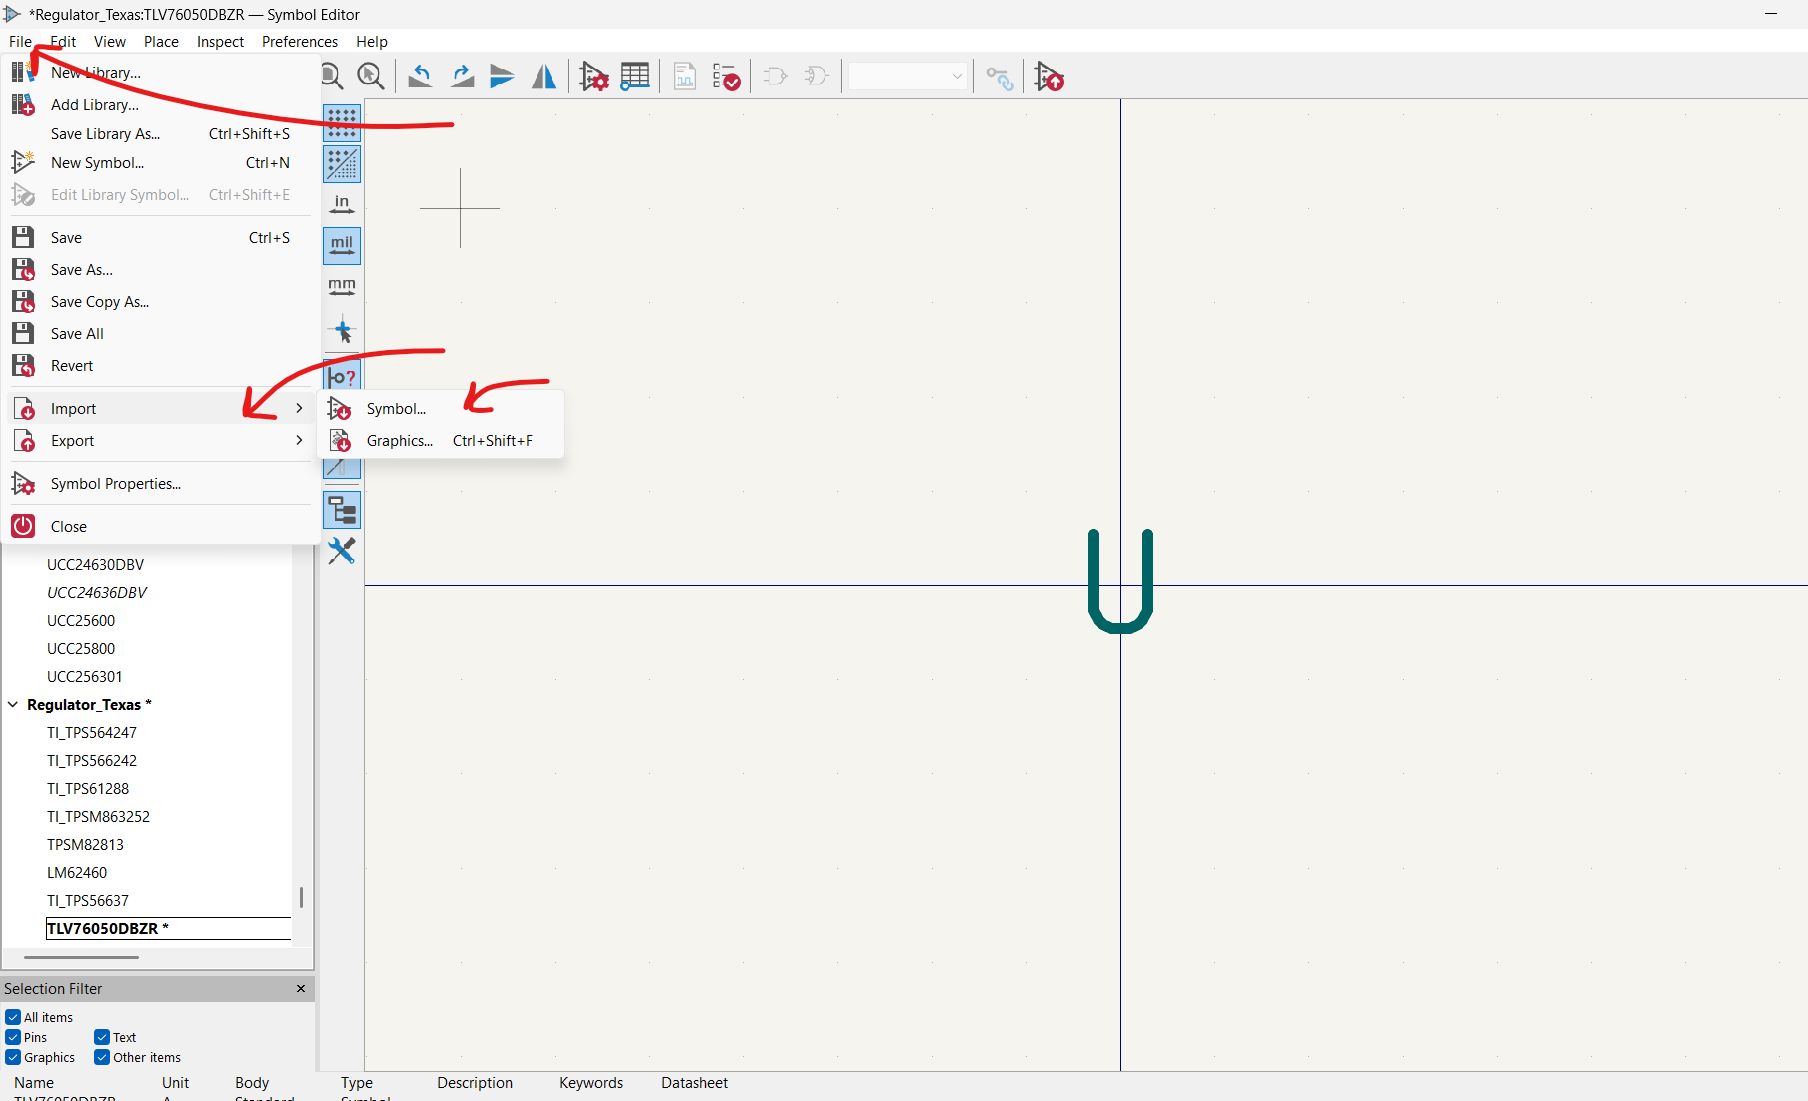
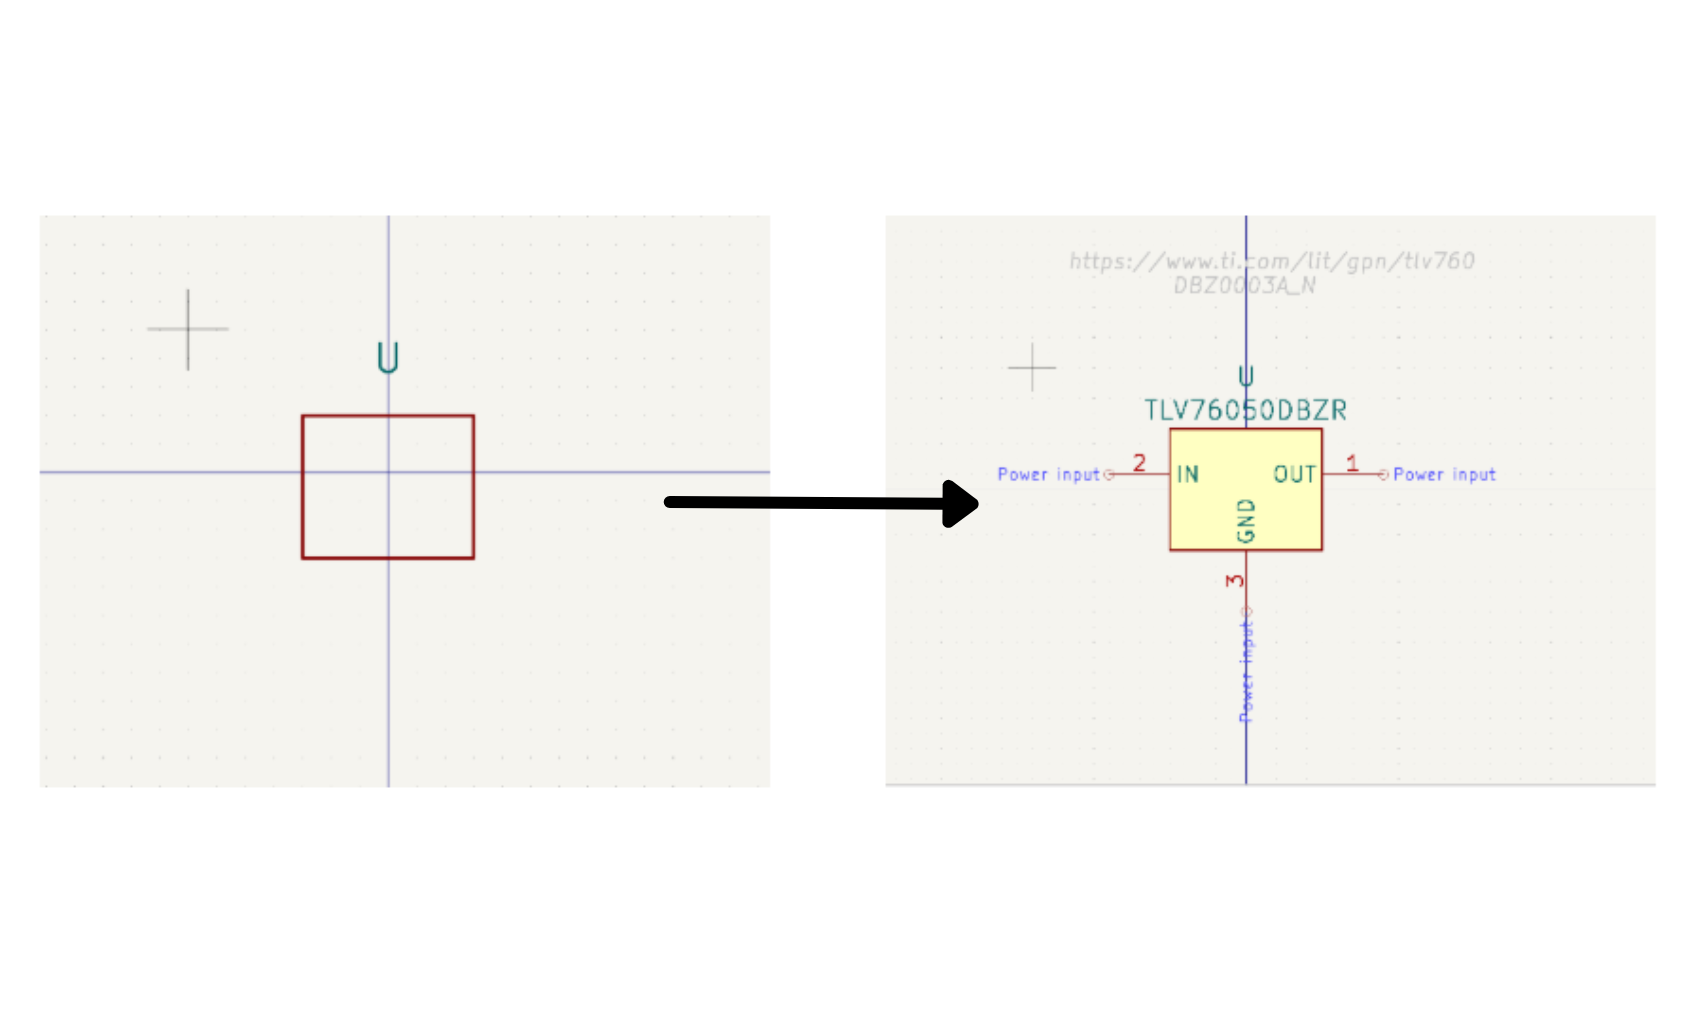
How to Import and Create Symbol Library Tutorial Additions

diff --git a/HOW-TO.md b/HOW-TO.md
@@ -9,8 +9,8 @@
     - [Finding ISS Symbol Library](#finding-iss-symbol-library)
     - [Setting Up Symbol Directories](#setting-up-symbol-directories)
     - [New Symbols](#new-symbols)
-- [Importing Project Specifc Libraries](#importing-project-specific-libraries)
 - [Footprints](#footprint-libraries)
+- [Importing Project Specifc Libraries](#importing-project-specific-libraries)
 - [Layout Tutorials](#layout-tutorials)
     - [Setting Up Design Rules Contraints](#setting-up-design-rules-constraints-drc)
     - [Trace Impedance Matching](#trace-impedance-matching)
@@ -49,9 +49,8 @@ Ensure symbol names follow ISS conventions seen in [ISS Library Conventions](htt
 
 *Error: If you get an error that says “Symbol Library “name” is not writable” this means you are trying to write to a kicad library you need to import to an ISS folder.*
 
-Click for [New Symbol Library](#creating-a-new-symbol-library)
+Either click to create a [New Symbol Library](#creating-a-new-symbol-library) or if you already have an existing symbol library that follows [conventions](https://github.com/ISSUIUC/ISS-PCB/blob/conventions/CONTRIBUTING.md#iss-library-convention) follow the steps to [import](#import-new-symbols-within-existing-library) or [create a new symbol](#creating-new-symbols)!
 
-If you already have an existing symbol library that follows [conventions](https://github.com/ISSUIUC/ISS-PCB/blob/conventions/CONTRIBUTING.md#iss-library-convention) and need help importing a symbol click [Import New Symbols within Existing Library](#import-new-symbols-within-existing-library)
 
 ### **Creating a New Symbol Library** 
 
@@ -75,13 +74,48 @@ Follow the steps to [import](#import-new-symbols-within-existing-library) or [cr
 
 ### **Import New Symbols within Existing Library**
 
-Symbols!
+Find the library and right click on it. Then click the import symbol. 
 
+![alt text](images/ISS-PCB-KiCAD-HOW-TO-DSPT1.png)
+
+Give symbol name (should be the name of the component you are importing) and [reference designator](https://github.com/ISSUIUC/ISS-PCB/blob/conventions/ISS-PCB-CONVENTIONS.md#reference-designators) in this case: 
+
+![alt text](images/ISS-PCB-KiCAD-HOW-TO-DSPT2.png)
+
+Make sure symbol is up to [conventions](https://github.com/ISSUIUC/ISS-PCB/blob/conventions/ISS-PCB-CONVENTIONS.md#symbol-conventions)
+
+- Save! File > Save 
+
+- Look up the name in (Place Symbols) in schematic editor 
 
 
 ### **Creating New Symbols**
 
-Symbols!
+Find the library and right click on it. Then click “New symbol” 
+
+![alt text](images/ISS-PCB-KiCAD-HOW-TO-ISPT1.png)
+
+
+Give symbol name (should be the name of the component you are putting in) in this case TLV76050DBZR
+
+Assign [reference designator](https://github.com/ISSUIUC/ISS-PCB/blob/conventions/ISS-PCB-CONVENTIONS.md#reference-designators) according to IEEE standards 
+
+![alt text](images/ISS-PCB-KiCAD-HOW-TO-ISPT2.png)
+
+
+Place a rectangle, then appropriate pins, and look at [conventions](https://github.com/ISSUIUC/ISS-PCB/blob/conventions/ISS-PCB-CONVENTIONS.md#symbol-conventions) to create a proper symbol. 
+
+![alt text](images/ISS-PCB-KiCAD-HOW-TO-ISPT3.png)
+
+Save! File> Save 
+
+Look up the name in (Place Symbols) in schematic editor. 
+
+# **Footprint Libraries**
+
+Footprint Libraries!
+
+
 
 # **Importing Project Specific Libraries**
 
@@ -105,11 +139,6 @@ What are Project Specific Libraries? These are libraries you have imported that 
 
 - Once done look up your library in symbols to make sure it comes up!
 
-
-
-# **Footprint Libraries**
-
-Footprint Libraries!
 
 
 # **Layout Tutorials** 
